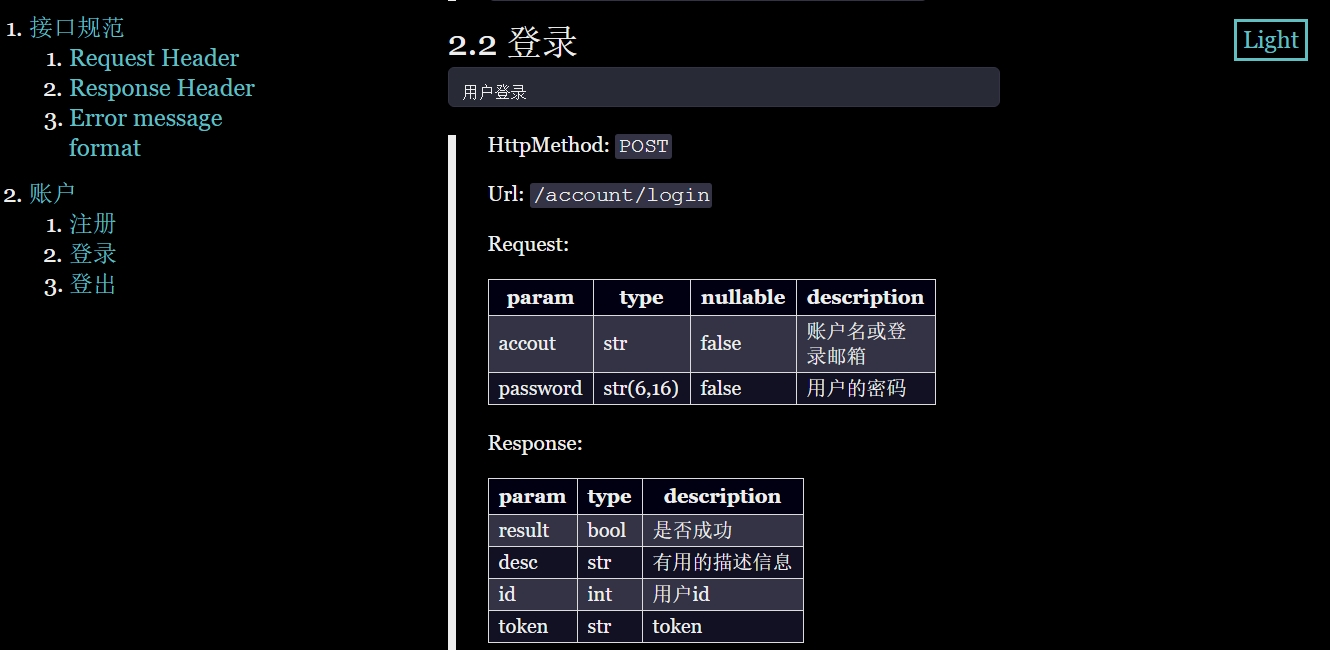
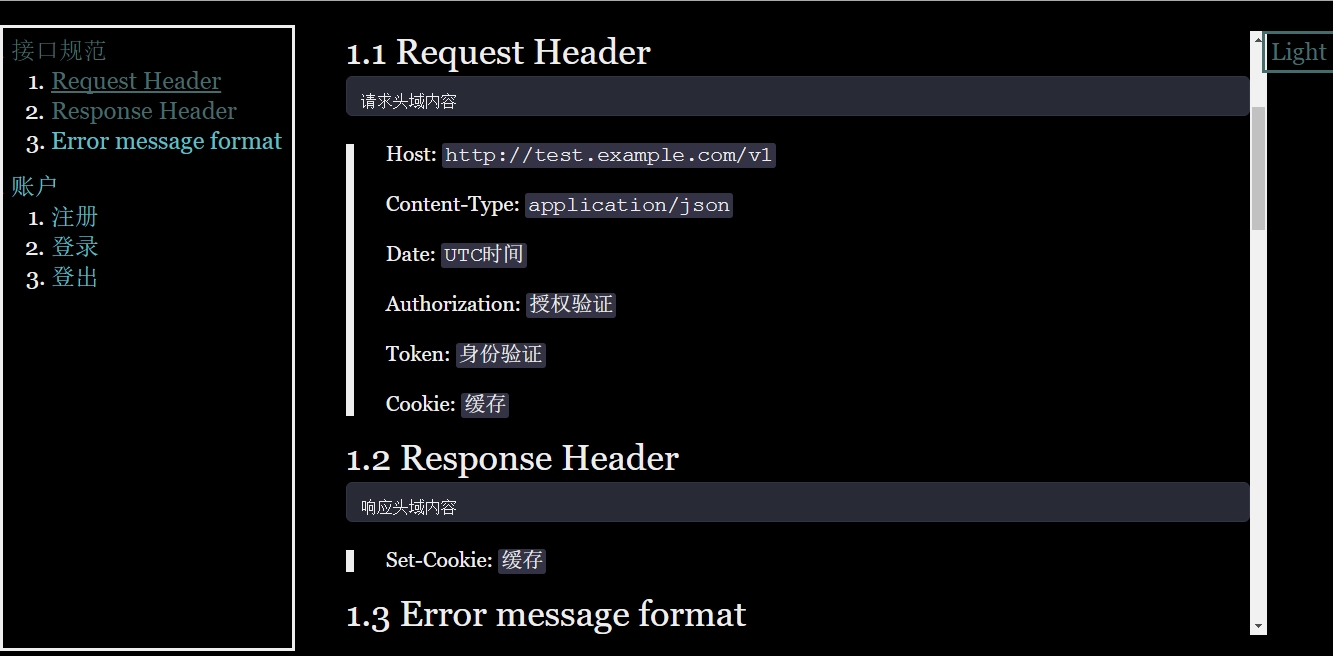
现在目录可以自动折叠了

Changed region(s): [[0.2466, 0.0308, 1.0, 1.0], [0.0, 0.0, 0.2158, 0.4615], [0.0, 0.9846, 0.2158, 1.0]]

diff --git a/static/js/marked_with_toc.js b/static/js/marked_with_toc.js
@@ -1,3 +1,7 @@
+window.onload = function (params) {
+    document.body.style.maxWidth = document.documentElement.clientWidth + "px";
+    document.body.style.width = document.documentElement.clientWidth - 50 + "px";
+};
 function markedWithToc(content) {
     var catalogOl = document.createElement("ol");
     catalogOl.style.position = "fixed";
@@ -5,10 +9,19 @@ function markedWithToc(content) {
     catalogOl.style.top = "0px";
     catalogOl.style.lineHeight = "30px";
     catalogOl.style.fontSize = "24px";
+    catalogOl.style.border = "3px solid";
+    catalogOl.style.padding = "8px";
+    catalogOl.style.width = "3%";
+    catalogOl.style.height = document.documentElement.clientHeight - 60 + "px";
+    catalogOl.style.overflowY = "auto";
     document.body.appendChild(catalogOl);
     var contentDiv = document.createElement("div");
-    contentDiv.style.marginLeft = "120px";
     contentDiv.innerHTML = marked(content);
+    contentDiv.style.cssFloat = "right";
+    contentDiv.style.marginRight = "6%";
+    contentDiv.style.width = "87%";
+    contentDiv.style.height = document.documentElement.clientHeight - 60 + "px";
+    contentDiv.style.overflowY = "auto";
     document.body.appendChild(contentDiv);
     
     var item = contentDiv.firstElementChild;
@@ -52,4 +65,23 @@ function markedWithToc(content) {
             item.innerHTML = '<a name = "' + id + '"></a>' + id + ' ' + item.textContent;
         }
     };
+    
+    catalogOl.onmouseover = function () { fold(20, 1); }
+    catalogOl.onmouseout = function () { fold(3, -1); }
+    
+    var timer = null;
+    function fold(target, speed) {
+        clearInterval(timer);
+        var width = parseInt(catalogOl.style.width.slice(0, -1));
+        timer = setInterval(function (){
+            if (width == target) {
+                clearInterval(timer);
+            }
+            else {
+                width += speed;         
+                catalogOl.style.width = width + "%";
+                contentDiv.style.width = 90 - width + "%";
+            }
+        }, 10);
+    }
 };

diff --git a/ReadMe.md b/ReadMe.md
@@ -1,8 +1,8 @@
 # 渲染Markdown，自动增加目录
-## Render markdown file, auto add TOC.
+## Render markdown file, auto add a float-fold TOC.
 ***
 ## 一个工具性质的网页，可以渲染Markdown文件
-## 并为H1、H2号标题自动增加一个浮动的TOC
+## 并为H1、H2号标题自动增加一个浮动且自动折叠的TOC
 ## [Try it now](http://zhengxiaoyao0716.github.io/MarkedWithToc)<br />
 ## [试试看](http://temp.zheng0716.com/MarkedWithToc)<br />
     ### 我提供了一份接口文档示范，[test_api.md，你可以尝试把它拖进去看看
@@ -19,7 +19,7 @@
 > 
 #### 1、在jasonm23提供的css样式基础上，修改定制黑、白两套CSS样式，主要修改表格样式，明暗间隔以便区分，并适当调整字号，使更适合作为接口文档来阅读
 #### 2、比起别的Markdown增加TOC的项目，我只为H1、H2号标题做导航，对于接口文档来说这足矣，太多的目录反而不适合
-#### 3、导航目录是浮动在左侧的，不会随着文档滚动，这样更方便作为一份接口文档来查看
+#### 3、导航目录是浮动在左侧的，不会随着文档滚动，失去焦点后自动折叠，这样更方便作为一份接口文档来查看
 
 ***
 ### 那么现在来试试拖拽.md文件来预览吧？这应该比上传到GitHub后查看方便许多
